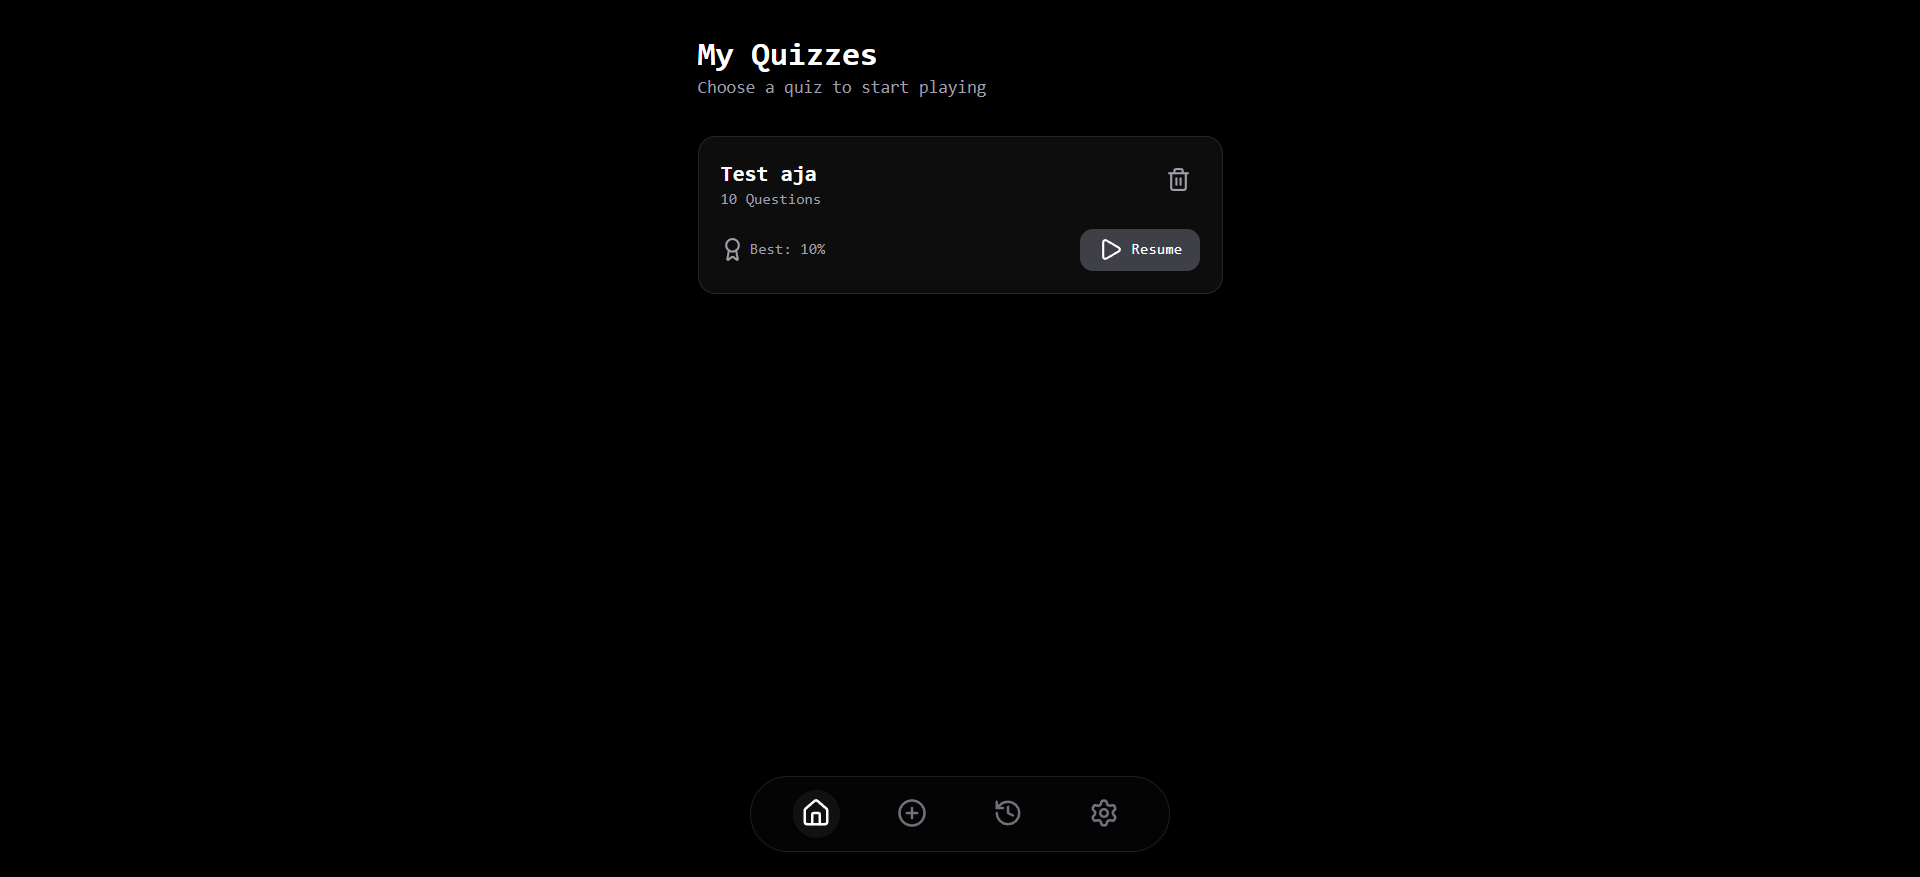
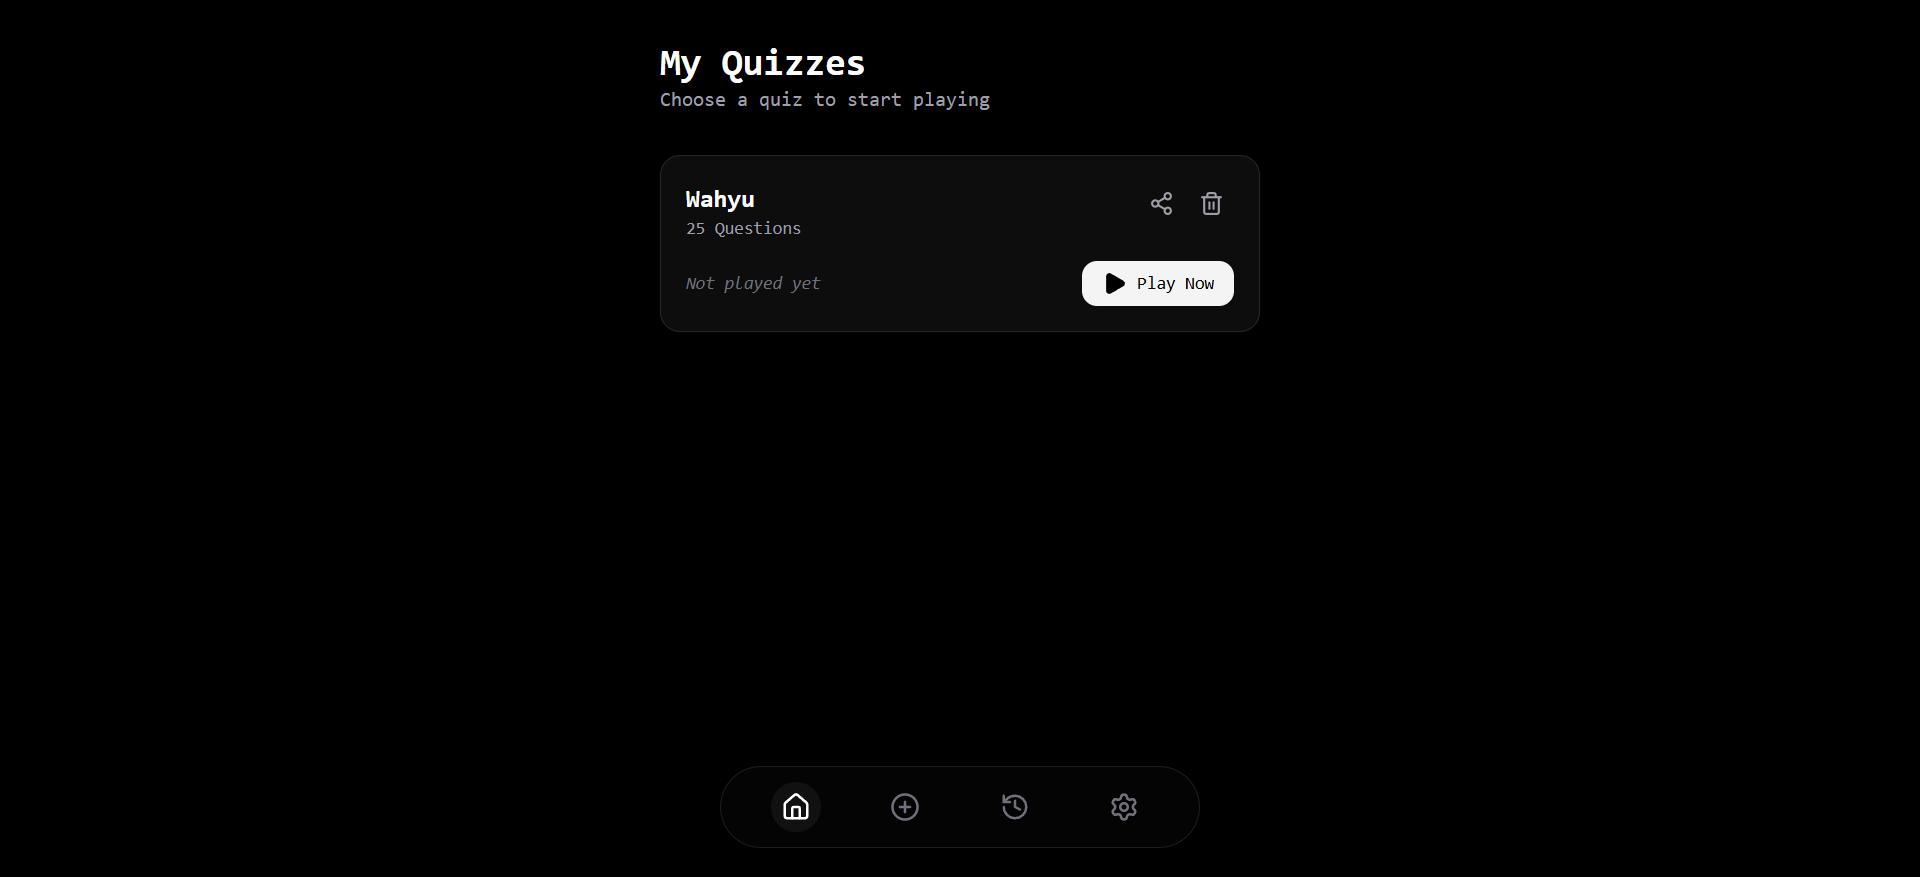
add share link feature.

diff --git a/src/pages/SharedQuizLoader.tsx b/src/pages/SharedQuizLoader.tsx
@@ -1,0 +1,84 @@
+import { useEffect, useState } from "react";
+import { useParams, useNavigate } from "react-router-dom";
+import { useDispatch, useSelector } from "react-redux";
+import { addQuiz } from "../store/slices/quizSlice";
+import type { RootState } from "../store";
+import { Loader2, AlertCircle } from "lucide-react";
+
+const SharedQuizLoader = () => {
+  const { id } = useParams<{ id: string }>();
+  const navigate = useNavigate();
+  const dispatch = useDispatch();
+  const quizzes = useSelector((state: RootState) => state.quiz.quizzes);
+  const [error, setError] = useState<string | null>(null);
+
+  useEffect(() => {
+    const fetchQuiz = async () => {
+      if (!id) return;
+
+      try {
+        // First check by ID
+        if (quizzes.find((q) => q.id === id)) {
+          navigate("/", { replace: true });
+          return;
+        }
+
+        const response = await fetch(`/api/quizzes/${id}`);
+        if (!response.ok) {
+          throw new Error("Quiz not found or failed to load");
+        }
+
+        const quizData = await response.json();
+
+        // Also check by content (in case of legacy UUIDs)
+        const contentMatch = quizzes.find((q) => q.title === quizData.title && JSON.stringify(q.data) === JSON.stringify(quizData.data));
+
+        if (contentMatch) {
+          navigate("/", { replace: true });
+          return;
+        }
+
+        // Add to local storage via Redux
+        dispatch(
+          addQuiz({
+            id: id,
+            title: quizData.title,
+            data: quizData.data,
+            createdAt: new Date().toISOString(),
+          })
+        );
+
+        // Redirect to home
+        navigate("/", { replace: true });
+      } catch (err) {
+        setError(err instanceof Error ? err.message : "An unexpected error occurred");
+      }
+    };
+
+    fetchQuiz();
+  }, [id, dispatch, navigate, quizzes]);
+
+  if (error) {
+    return (
+      <div className="flex flex-col items-center justify-center min-h-[50vh] text-center p-6">
+        <div className="w-16 h-16 bg-red-500/10 text-red-500 rounded-full flex items-center justify-center mb-4">
+          <AlertCircle size={32} />
+        </div>
+        <h2 className="text-2xl font-bold mb-2">Oops!</h2>
+        <p className="text-zinc-500 mb-6">{error}</p>
+        <button onClick={() => navigate("/")} className="px-6 py-2 bg-black dark:bg-white text-white dark:text-black rounded-xl font-medium">
+          Go Back Home
+        </button>
+      </div>
+    );
+  }
+
+  return (
+    <div className="flex flex-col items-center justify-center min-h-[50vh]">
+      <Loader2 className="animate-spin text-zinc-400 mb-4" size={48} />
+      <p className="text-zinc-500 animate-pulse">Loading shared quiz...</p>
+    </div>
+  );
+};
+
+export default SharedQuizLoader;

diff --git a/worker/index.ts b/worker/index.ts
@@ -1,12 +1,47 @@
-export default {
-  fetch(request) {
-    const url = new URL(request.url);
+import { Hono } from "hono";
 
-    if (url.pathname.startsWith("/api/")) {
-      return Response.json({
-        name: "Cloudflare",
-      });
-    }
-    return new Response(null, { status: 404 });
-  },
-} satisfies ExportedHandler<Env>;
+type Bindings = {
+  DB: D1Database;
+};
+
+const app = new Hono<{ Bindings: Bindings }>();
+
+// Helper function to calculate SHA-256 hash
+async function calculateHash(content: string): Promise<string> {
+  const msgUint8 = new TextEncoder().encode(content);
+  const hashBuffer = await crypto.subtle.digest("SHA-256", msgUint8);
+  const hashArray = Array.from(new Uint8Array(hashBuffer));
+  const hashHex = hashArray.map((b) => b.toString(16).padStart(2, "0")).join("");
+  return hashHex;
+}
+
+app.get("/api/quizzes/:id", async (c) => {
+  const id = c.req.param("id");
+  const { DB } = c.env;
+
+  const quiz = await DB.prepare("SELECT content FROM quizzes WHERE id = ?").bind(id).first<{ content: string }>();
+
+  if (!quiz) {
+    return c.json({ error: "Quiz not found" }, 404);
+  }
+
+  return c.json(JSON.parse(quiz.content));
+});
+
+app.post("/api/quizzes", async (c) => {
+  const body = await c.req.json();
+  const content = JSON.stringify(body);
+  const id = await calculateHash(content);
+  const { DB } = c.env;
+
+  try {
+    await DB.prepare("INSERT OR IGNORE INTO quizzes (id, content) VALUES (?, ?)").bind(id, content).run();
+
+    return c.json({ id });
+  } catch (error) {
+    console.error("Database error:", error);
+    return c.json({ error: "Internal Server Error" }, 500);
+  }
+});
+
+export default app;

diff --git a/src/pages/Home.tsx b/src/pages/Home.tsx
@@ -4,7 +4,7 @@ import type { RootState } from "../store";
 import { updateActiveSession, deleteQuiz } from "../store/slices/quizSlice";
 import type { Quiz } from "../store/slices/quizSlice";
 import { Link, useNavigate } from "react-router-dom";
-import { Play, Trash2, Award, AlertCircle } from "lucide-react";
+import { Play, Trash2, Award, AlertCircle, Share2, Check } from "lucide-react";
 
 const Home = () => {
   const quizzes = useSelector((state: RootState) => state.quiz.quizzes);
@@ -14,6 +14,8 @@ const Home = () => {
   const dispatch = useDispatch();
 
   const [deleteId, setDeleteId] = useState<string | null>(null);
+  const [sharingId, setSharingId] = useState<string | null>(null);
+  const [copiedId, setCopiedId] = useState<string | null>(null);
 
   const getBestScore = (quizId: string) => {
     const quizScores = scores.filter((s) => s.quizId === quizId);
@@ -25,6 +27,34 @@ const Home = () => {
     if (deleteId) {
       dispatch(deleteQuiz(deleteId));
       setDeleteId(null);
+    }
+  };
+
+  const handleShare = async (quiz: Quiz) => {
+    setSharingId(quiz.id);
+    try {
+      const response = await fetch("/api/quizzes", {
+        method: "POST",
+        headers: {
+          "Content-Type": "application/json",
+        },
+        body: JSON.stringify({
+          title: quiz.title,
+          data: quiz.data,
+        }),
+      });
+
+      if (response.ok) {
+        const { id } = await response.json();
+        const shareUrl = `${window.location.origin}/quiz/shared/${id}`;
+        await navigator.clipboard.writeText(shareUrl);
+        setCopiedId(quiz.id);
+        setTimeout(() => setCopiedId(null), 2000);
+      }
+    } catch (error) {
+      console.error("Failed to share quiz:", error);
+    } finally {
+      setSharingId(null);
     }
   };
 
@@ -110,9 +140,25 @@ const Home = () => {
                     <h2 className="text-xl font-semibold dark:text-white">{quiz.title}</h2>
                     <p className="text-sm text-zinc-500 dark:text-zinc-400">{quiz.data.length} Questions</p>
                   </div>
-                  <button onClick={() => setDeleteId(quiz.id)} className="p-2 text-zinc-400 hover:text-black dark:hover:text-white rounded-full transition-all" title="Delete Quiz">
-                    <Trash2 size={20} />
-                  </button>
+                  <div className="flex gap-1">
+                    <button
+                      onClick={() => handleShare(quiz)}
+                      disabled={sharingId === quiz.id}
+                      className={`p-2 rounded-full transition-all ${
+                        copiedId === quiz.id ? "text-green-500 bg-green-500/10" : "text-zinc-400 hover:text-black dark:hover:text-white hover:bg-zinc-100 dark:hover:bg-white/10"
+                      }`}
+                      title="Share Quiz"
+                    >
+                      {copiedId === quiz.id ? <Check size={20} /> : <Share2 size={20} className={sharingId === quiz.id ? "animate-pulse" : ""} />}
+                    </button>
+                    <button
+                      onClick={() => setDeleteId(quiz.id)}
+                      className="p-2 text-zinc-400 hover:text-red-500 dark:hover:text-red-400 rounded-full transition-all hover:bg-zinc-100 dark:hover:bg-white/10"
+                      title="Delete Quiz"
+                    >
+                      <Trash2 size={20} />
+                    </button>
+                  </div>
                 </div>
 
                 <div className="flex items-center justify-between">

diff --git a/src/pages/CreateQuiz.tsx b/src/pages/CreateQuiz.tsx
@@ -56,7 +56,7 @@ Please provide a quiz about [TOPIC HERE] with at least 5 questions (mix of multi
     setJsonInputs(newInputs.length ? newInputs : [""]);
   };
 
-  const handleSubmit = (e: React.FormEvent) => {
+  const handleSubmit = async (e: React.FormEvent) => {
     e.preventDefault();
     setError("");
 
@@ -111,8 +111,18 @@ Please provide a quiz about [TOPIC HERE] with at least 5 questions (mix of multi
         throw new Error("Please provide at least one valid JSON array of questions.");
       }
 
+      // Generate ID from content hash
+      const contentString = JSON.stringify({
+        title: title.trim(),
+        data: combinedData,
+      });
+      const msgUint8 = new TextEncoder().encode(contentString);
+      const hashBuffer = await crypto.subtle.digest("SHA-256", msgUint8);
+      const hashArray = Array.from(new Uint8Array(hashBuffer));
+      const hashHex = hashArray.map((b) => b.toString(16).padStart(2, "0")).join("");
+
       const newQuiz = {
-        id: crypto.randomUUID(),
+        id: hashHex,
         title: title.trim(),
         data: combinedData,
         createdAt: new Date().toISOString(),

diff --git a/worker-configuration.d.ts b/worker-configuration.d.ts
@@ -1,7 +1,9 @@
 /* eslint-disable */
-// Generated by Wrangler by running `wrangler types` (hash: 8bc2f35798b30d393a2fbdb9374737c2)
+// Generated by Wrangler by running `wrangler types` (hash: c653c1b574a02ff90477944ad5e6c316)
 // Runtime types generated with workerd@1.20260603.1 2026-06-07 nodejs_compat
-interface __BaseEnv_Env {}
+interface __BaseEnv_Env {
+  DB: D1Database;
+}
 declare namespace Cloudflare {
   interface GlobalProps {
     mainModule: typeof import("./worker/index");

diff --git a/src/store/slices/quizSlice.ts b/src/store/slices/quizSlice.ts
@@ -50,7 +50,10 @@ const quizSlice = createSlice({
       state.activeSessions = action.payload.activeSessions || {};
     },
     addQuiz: (state, action: PayloadAction<Quiz>) => {
-      state.quizzes.push(action.payload);
+      const exists = state.quizzes.some((q) => q.id === action.payload.id);
+      if (!exists) {
+        state.quizzes.push(action.payload);
+      }
     },
     saveScore: (state, action: PayloadAction<Score>) => {
       state.scores.unshift(action.payload);

diff --git a/src/main.tsx b/src/main.tsx
@@ -13,6 +13,7 @@ import QuizPlay from "./pages/QuizPlay.tsx";
 import History from "./pages/History.tsx";
 import QuizReview from "./pages/QuizReview.tsx";
 import Settings from "./pages/Settings.tsx";
+import SharedQuizLoader from "./pages/SharedQuizLoader.tsx";
 
 const mathJaxConfig = {
   loader: { load: ["input/tex", "output/chtml"] },
@@ -39,6 +40,7 @@ createRoot(document.getElementById("root")!).render(
               <Route path="create" element={<CreateQuiz />} />
               <Route path="history" element={<History />} />
               <Route path="quiz/:id" element={<QuizPlay />} />
+              <Route path="quiz/shared/:id" element={<SharedQuizLoader />} />
               <Route path="review/:scoreId" element={<QuizReview />} />
               <Route path="settings" element={<Settings />} />
             </Route>

diff --git a/README.md b/README.md
@@ -4,4 +4,6 @@
 
 This platform provides a streamlined interface for creating, managing, and participating in interactive quizzes. It enables users to build custom question sets, track their progress through session history, and evaluate results using a dedicated review system.
 
-Built as a client-side application using React and TypeScript, the project leverages Redux for robust state management and local storage for data persistence. This architecture ensures a fast, offline-capable experience for quiz generation, gameplay, and configuration without the need for a dedicated backend.
+Built with React and TypeScript, the project leverages Redux for robust state management. While kuis creation and gameplay are powered by local storage for a fast, offline-capable experience, the platform also features a **Shared Quiz** system.
+
+Using a backend powered by **Hono** and **Cloudflare D1**, users can generate unique shareable links for their quizzes. These links use SHA-256 content hashing to ensure data integrity and prevent collisions, allowing quizzes to be easily distributed across the web and imported by other users into their local lists.